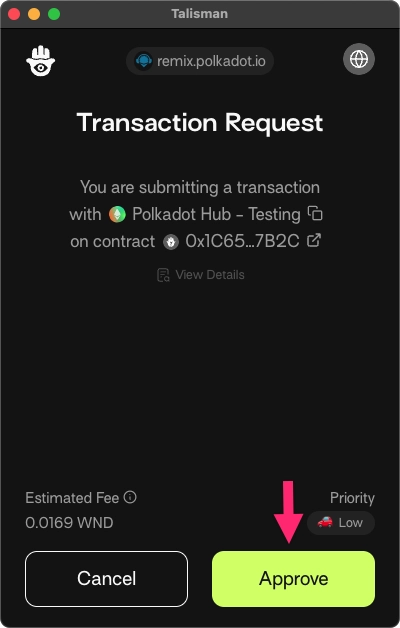
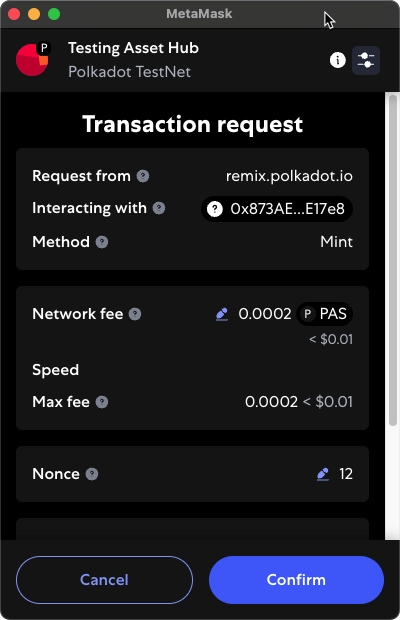
fix: updating remix erc20

diff --git a/tutorials/smart-contracts/deploy-erc20.md b/tutorials/smart-contracts/deploy-erc20.md
@@ -10,14 +10,14 @@ tutorial_badge: Beginner
 
 [ERC-20](https://eips.ethereum.org/EIPS/eip-20){target=\_blank} tokens are fungible tokens commonly used for creating cryptocurrencies, governance tokens, and staking mechanisms. Polkadot Hub enables easy token deployment with Ethereum-compatible smart contracts via PolkaVM.
 
-This tutorial covers deploying an ERC-20 contract on the Westend TestNet using [Polkadot Remix IDE](https://remix.polkadot.io){target=\_blank}, a web-based development tool. [OpenZeppelin's ERC-20 contracts]({{ dependencies.repositories.open_zeppelin_contracts.repository_url}}/tree/{{ dependencies.repositories.open_zeppelin_contracts.version}}/contracts/token/ERC20){target=\_blank} are used for security and compliance.
+This tutorial covers deploying an ERC-20 contract on the Passet Hub TestNet using [Polkadot Remix IDE](https://remix.polkadot.io){target=\_blank}, a web-based development tool. [OpenZeppelin's ERC-20 contracts]({{ dependencies.repositories.open_zeppelin_contracts.repository_url}}/tree/{{ dependencies.repositories.open_zeppelin_contracts.version}}/contracts/token/ERC20){target=\_blank} are used for security and compliance.
 
 ## Prerequisites
 
 Before starting, make sure you have:
 
-- [Talisman](https://talisman.xyz/){target=\_blank} installed and connected to [Westend Hub](https://chainlist.org/chain/420420421){target=\_blank}. For detailed instructions, see the [Connect Your Wallet](/develop/smart-contracts/wallets/#connect-your-wallet){target=\_blank} section
-- A funded account with some WND tokens (you can get them from the [Westend Faucet](https://faucet.polkadot.io/westend?parachain=1000){target=\_blank}). To learn how to get test tokens, check out the [Test Tokens](/develop/smart-contracts/connect-to-asset-hub/#test-tokens){target=\_blank} section
+- [MetaMask](https://metamask.io/){target=\_blank} installed and connected to Passet Hub. For detailed instructions, see the [Connect Your Wallet](/develop/smart-contracts/wallets){target=\_blank} section
+- A funded account with some PAS tokens (you can get them from the [Polkadot Faucet](https://faucet.polkadot.io/?parachain=1111){target=\_blank}). To learn how to get test tokens, check out the [Test Tokens](/develop/smart-contracts/connect-to-polkadot#test-tokens){target=\_blank} section
 - Basic understanding of Solidity and fungible tokens
 
 ## Create the ERC-20 Contract
@@ -89,7 +89,7 @@ Deployment is the process of publishing your compiled smart contract to the bloc
     ![](/images/tutorials/smart-contracts/deploy-erc20/deploy-erc20-6.webp)
 
 2. Configure the deployment settings
-    1. From the **ENVIRONMENT** dropdown, select **Injected Provider - Talisman** (check the [Deploying Contracts](/develop/smart-contracts/dev-environments/remix/#deploying-contracts){target=\_blank} section of the Remix IDE guide for more details)
+    1. From the **ENVIRONMENT** dropdown, select **Injected Provider - MetaMask** (check the [Deploying Contracts](/develop/smart-contracts/dev-environments/remix/#deploying-contracts){target=\_blank} section of the Remix IDE guide for more details)
     2. From the **ACCOUNT** dropdown, select the account you want to use for the deploy
 
     ![](/images/tutorials/smart-contracts/deploy-erc20/deploy-erc20-7.webp)
@@ -100,7 +100,7 @@ Deployment is the process of publishing your compiled smart contract to the bloc
 
     ![](/images/tutorials/smart-contracts/deploy-erc20/deploy-erc20-8.webp)
 
-4. Talisman will pop up - review the transaction details. Click **Confirm** to deploy your contract
+4. MetaMask will pop up - review the transaction details. Click **Confirm** to deploy your contract
 
      ![](/images/tutorials/smart-contracts/deploy-erc20/deploy-erc20-9.webp){: .browser-extension}
 
@@ -126,7 +126,7 @@ Once deployed, you can interact with your contract through Remix:
 
     ![](/images/tutorials/smart-contracts/deploy-erc20/deploy-erc20-12.webp)
 
-3. Click **Approve** to confirm the transaction in the Talisman popup
+3. Click **Confirm** to confirm the transaction in the MetaMask popup
 
     ![](/images/tutorials/smart-contracts/deploy-erc20/deploy-erc20-13.webp){: .browser-extension}
 
@@ -140,4 +140,4 @@ Other common functions you can use:
 - **`transfer(address to, uint256 amount)`** - send tokens to another address
 - **`approve(address spender, uint256 amount)`** - allow another address to spend your tokens
 
-Feel free to explore and interact with the contract's other functions using the same approach - selecting the method, providing any required parameters, and confirming the transaction through Talisman when needed.
+Feel free to explore and interact with the contract's other functions using the same approach - selecting the method, providing any required parameters, and confirming the transaction through MetaMask when needed.
